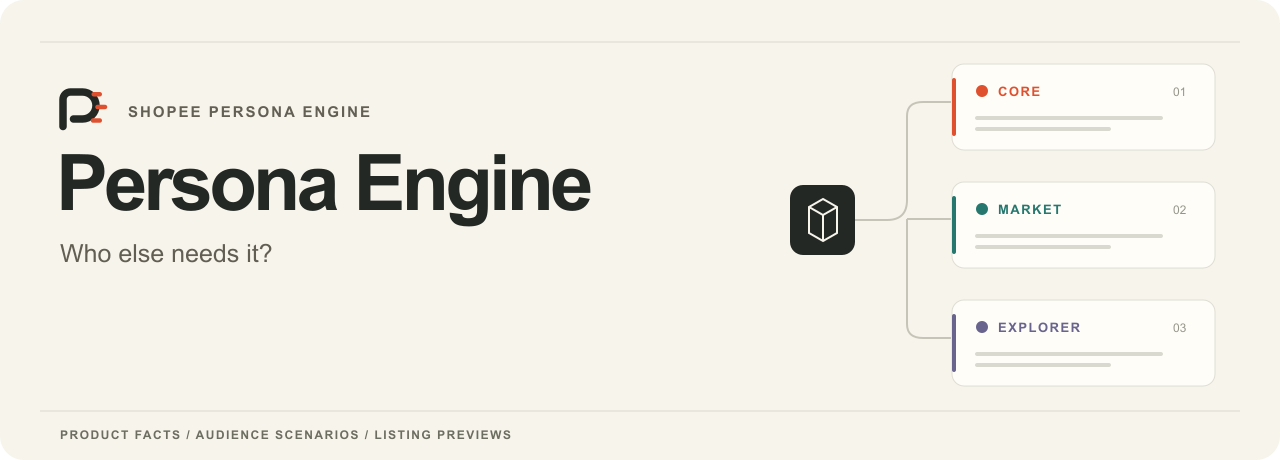
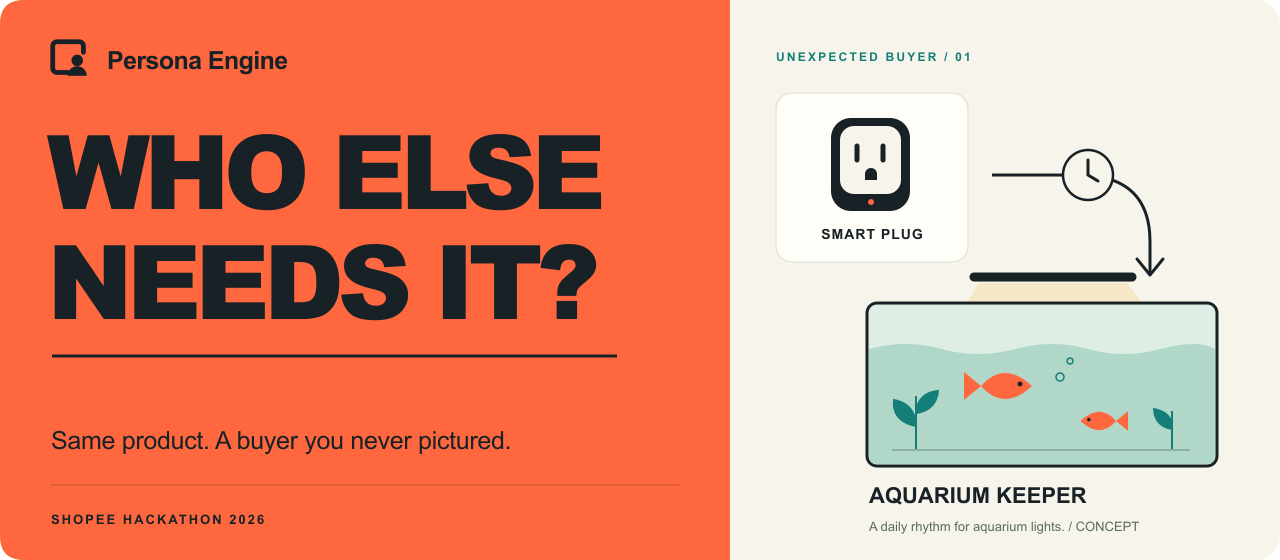
design: introduce buyer-outside-the-frame identity and pitch heroes

diff --git a/src/App.tsx b/src/App.tsx
@@ -173,7 +173,7 @@ export default function App() {
   const selectionChanged = !!project && (project.variants.length !== selected.length || project.variants.some(variant => !selected.includes(variant.buyerId)));
 
   return <div className={`app ${page === 'previews' ? 'preview-app' : ''}`}>
-    <header className="app-header"><button className="brand" onClick={() => { if (page !== 'input') newProject(); }} aria-label="Persona Engine 商品工作台"><span className="brand-mark">p<span>e</span></span><span>Persona Engine<small>商品受眾工作台</small></span></button><nav><button className="demo-badge" onClick={() => setAbout(true)}><span className="status-dot" />示範模式<Info size={13} /></button><button className="header-button" aria-label="最近專案" onClick={openHistory}><History size={17} /><span>最近專案</span></button>{page !== 'input' && <button className="new-button" aria-label="新增商品" onClick={newProject}><Plus size={16} /><span>新增商品</span></button>}</nav></header>
+    <header className="app-header"><button className="brand" onClick={() => { if (page !== 'input') newProject(); }} aria-label="Persona Engine 商品工作台"><img src="/favicon.svg" width="40" height="40" alt="" aria-hidden="true" /><span>Persona Engine<small>商品受眾工作台</small></span></button><nav><button className="demo-badge" onClick={() => setAbout(true)}><span className="status-dot" />示範模式<Info size={13} /></button><button className="header-button" aria-label="最近專案" onClick={openHistory}><History size={17} /><span>最近專案</span></button>{page !== 'input' && <button className="new-button" aria-label="新增商品" onClick={newProject}><Plus size={16} /><span>新增商品</span></button>}</nav></header>
     <div className="step-bar"><div className="steps">{['帶入商品', '探索受眾', '商品頁預覽'].map((label, i) => <button key={label} className={`step ${step === i ? 'active' : ''} ${step > i ? 'done' : ''}`} disabled={(i === 1 && !project) || (i === 2 && !project?.variants.length)} onClick={() => setPage((['input', 'audiences', 'previews'] as Page[])[i])}><span>{step > i ? <Check size={13} /> : i + 1}</span>{label}{i !== 2 && <ChevronRight className="step-chevron" size={15} />}</button>)}</div><span className="step-caption">一件商品，多一種被看見的可能。</span></div>
 
     {page === 'input' && <main className="input-main">

diff --git a/docs/assets/brand/README.md b/docs/assets/brand/README.md
@@ -2,15 +2,19 @@
 
 [Docs](../../README.md) · [Project homepage](../../../README.md)
 
-The mark uses a **P-shaped product loop with three outward strokes**, representing
-one product viewed through Core, Market and Explorer scenarios. It is an original
-project mark, not the Shopee shopping-bag logo. The hero uses warm paper, charcoal,
-orange, teal and muted violet to connect the product to its three audience groups.
-The tagline follows the team deck’s “Who else needs it?”; the workflow illustrates the pitch research method, not only the checked-in runtime. The editorial hierarchy takes cues from the user's
-[Polish Open-Source Prose](https://github.com/ting-hong-shieh/polish-open-source-prose)
-reference; no reference artwork was copied.
+The identity centers on **a buyer outside the frame**. An open frame sets the
+expected picture; a person extends beyond its edge. The symbol expresses the
+project's question, “Who else needs it?”, without relying on a letter monogram.
 
-標誌以 P 形商品迴圈及三道向外筆畫，表達同一商品的三組受眾方向。這是專案原創標誌，不是 Shopee 購物袋商標。視覺採暖紙色、炭黑、橘、青綠與灰紫；資訊層次參考使用者的既有專案，沒有複製其圖形。
+品牌以「框外的人」為核心：開放框線代表原先看見的範圍，人物跨出邊界，呼應找到原本沒想到的買家。
+
+The README hero uses an orange editorial panel, oversized type and a schematic
+Smart Plug → aquarium-lighting scene. It follows the pitch's lead example. The
+illustration is conceptual, not product photography or a scheduling interface.
+The app header and favicon use the same mark; this source change does not update
+the separately hosted deployment.
+
+首頁採橘色海報版面、大字標題，以及「智慧插座 → 魚缸照明」概念圖，與簡報主案例一致。圖像不是商品實拍或排程操作介面。Repo 的產品頁首及 favicon 同步使用新標誌；此原始碼修改不會直接更新另行部署的網站。
 
 | File | Use / 用途 |
 | --- | --- |
@@ -18,21 +22,32 @@ reference; no reference artwork was copied.
 | [logo-light.svg](logo-light.svg) | Light mark for dark backgrounds／深底用淺色標誌 |
 | [logo-mono.svg](logo-mono.svg) | One-color mark／單色標誌 |
 | [wordmark.svg](wordmark.svg) | Horizontal identity／橫式字標 |
-| [hero.svg](hero.svg) | English README hero, 1280 × 460 |
-| [hero.zh-TW.svg](hero.zh-TW.svg) | 繁體中文 README hero，1280 × 460 |
+| [app-icon.svg](app-icon.svg), [app-icon.png](app-icon.png) | Rounded app icon, 128 × 128／產品圖示 |
+| [hero.svg](hero.svg) | English README hero, 1280 × 560 |
+| [hero.zh-TW.svg](hero.zh-TW.svg) | 繁體中文 README hero，1280 × 560 |
 | [hero.png](hero.png), [hero.zh-TW.png](hero.zh-TW.png) | PNG exports for sharing／分享用 PNG |
-| [workflow.svg](workflow.svg) | English workflow, 1280 × 180 |
-| [workflow.zh-TW.svg](workflow.zh-TW.svg) | 繁體中文流程圖，1280 × 180 |
+| [brand-board.svg](brand-board.svg), [brand-board.png](brand-board.png) | Identity overview, 1280 × 680／品牌總覽 |
+| [workflow.svg](workflow.svg) | English pitch workflow, 1280 × 180 |
+| [workflow.zh-TW.svg](workflow.zh-TW.svg) | 繁體中文研究流程圖，1280 × 180 |
 
-SVGs contain vector paths and text, with no external resources or scripts. Their
-solid hero backgrounds stay readable in GitHub light and dark themes. Transparent
-logos require a suitable contrasting background. Keep proportions and leave clear
-space around the mark; the hero diagram is conceptual, not a product screenshot.
+## Palette / 色彩
 
-SVG 無外部資源或腳本，hero 的實色底可在 GitHub 明暗主題維持對比。透明標誌需搭配有對比的背景；保留比例與留白。Hero 內圖形是概念流程，不是產品畫面。
+| Color | Value | Role / 用途 |
+| --- | --- | --- |
+| Discovery orange | `#FF683F` | Hero panel and accent／主視覺與重點色 |
+| Ink | `#172126` | Type and structure／文字與線條 |
+| Paper | `#F7F4EB` | Illustration background／插畫底色 |
+| Aquarium teal | `#147E78` | Context illustration accents／情境輔助色 |
 
-Typography uses Arial/Helvetica with system fallbacks; Traditional Chinese uses
-PingFang TC where available. Text remains editable. The project license is currently
-unspecified, so these assets do not carry an independently assigned reuse license.
+SVGs contain editable vector paths and text, with no external resources or scripts.
+Hero backgrounds preserve contrast in GitHub light and dark themes. Use the light
+logo on dark backgrounds and keep clear space around the symbol. These are original
+project graphics, not Shopee's official logo or an endorsement mark.
 
-字體使用系統替代字型，文字可直接編輯。專案授權尚未指定，本次未替資產另訂重用授權。
+SVG 保留可編輯圖形及文字，沒有外部資源或腳本。Hero 的實色底適合 GitHub 明暗主題；深色背景使用淺色標誌，保留標誌周圍留白。圖形為專案原創，不是 Shopee 官方商標或背書標章。
+
+English display type uses Arial Black with Arial/Helvetica fallbacks; Traditional
+Chinese uses PingFang TC with system fallbacks. The project license is unspecified;
+these assets do not carry a separately assigned reuse license.
+
+英文大標使用 Arial Black，繁中使用 PingFang TC，皆設有系統替代字型。專案授權尚未指定，資產未另訂重用授權。

diff --git a/README.md b/README.md
@@ -1,5 +1,5 @@
 <p align="center">
-  <img src="docs/assets/brand/hero.svg" alt="Persona Engine — Who else needs it? Explore unexpected buyers, then write the listing that speaks to them." width="100%">
+  <img src="docs/assets/brand/hero.svg" alt="Persona Engine — Who else needs it? Concept illustration: a smart plug becomes a lighting routine for an aquarium keeper." width="100%">
 </p>
 
 <p align="center">

diff --git a/README.zh-TW.md b/README.zh-TW.md
@@ -1,5 +1,5 @@
 <p align="center">
-  <img src="docs/assets/brand/hero.zh-TW.svg" alt="Persona Engine：誰還需要它？探索意想不到的買家，再寫出對應的商品頁。" width="100%">
+  <img src="docs/assets/brand/hero.zh-TW.svg" alt="Persona Engine：誰還需要它？以智慧插座連到魚缸照明作息的概念插畫，呈現意想不到的買家。" width="100%">
 </p>
 
 <p align="center">
